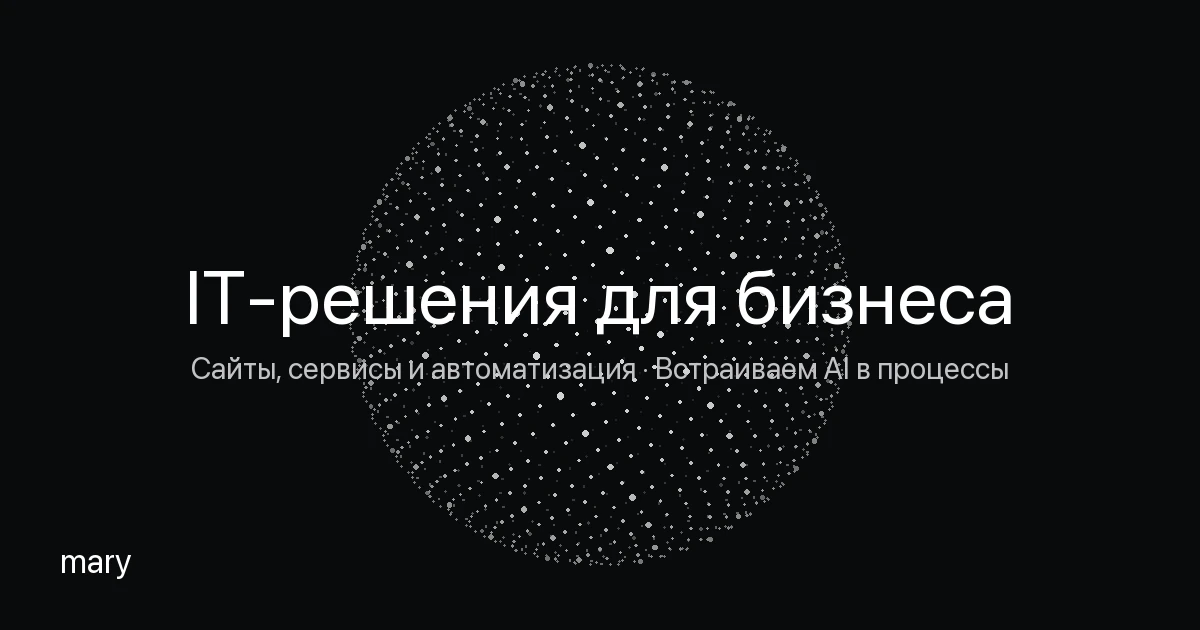
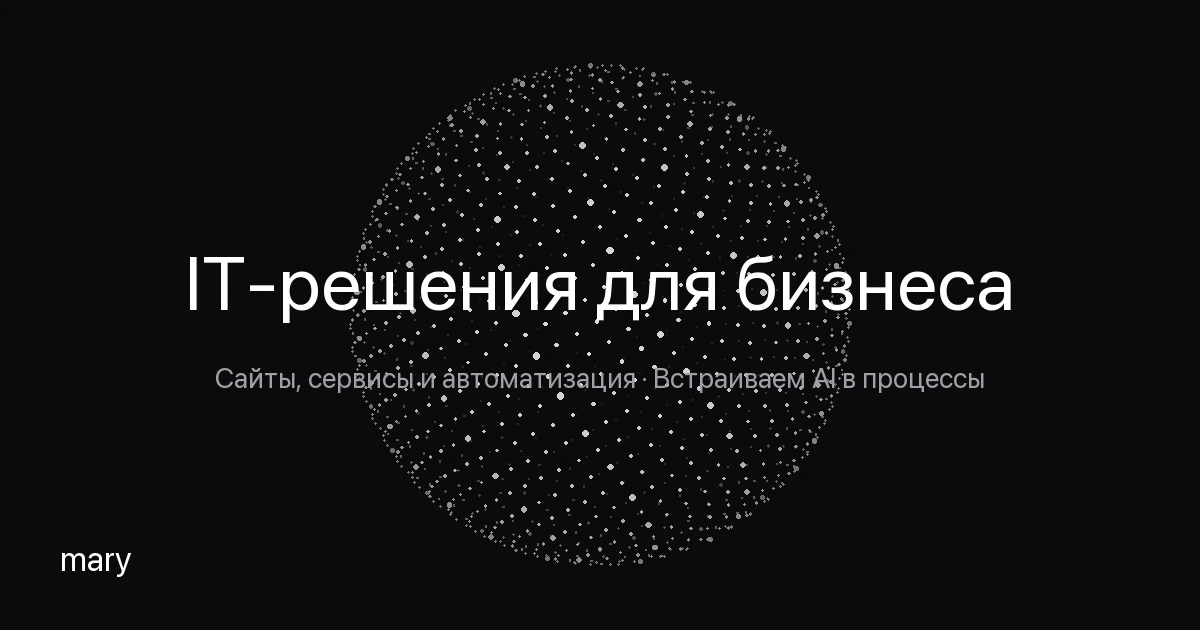
Деплой сайта 27.08.2026 15:22

Changed region(s): [[0.1542, 0.3921, 0.8633, 0.5429], [0.1542, 0.573, 0.8633, 0.6333], [0.0617, 0.8746, 0.1233, 0.9048]]

diff --git a/razrabotka.html b/razrabotka.html
@@ -26,7 +26,7 @@
 <meta name="description" content="Сайты, сервисы, интеграции, ИИ-агенты и автоматизация процессов на заказ. Гарантия 12 месяцев, права на результат у заказчика." />
 <title>IT-разработка и автоматизация на заказ — Mary</title>
 <script type="application/ld+json">{"@context": "https://schema.org", "@graph": [{"@type": "ProfessionalService", "name": "Mary — разработка и автоматизация на заказ", "url": "https://sales.maryrose.by/", "areaServed": "BY", "provider": {"@type": "Organization", "name": "ООО «Мэрироуз»", "url": "https://maryrose.by", "email": "lukashevich.ak@gmail.com", "telephone": "+375291898501"}, "description": "Разработка ИИ-агентов, чат-ботов, интеграций и систем автоматизации бизнес-процессов под заказ."}, {"@type": "FAQPage", "mainEntity": [{"@type": "Question", "name": "Кому принадлежит результат разработки?", "acceptedAnswer": {"@type": "Answer", "text": "Заказчику. Права, включая исключительное, переходят к нему; вознаграждение за уступку включено в стоимость работ."}}, {"@type": "Question", "name": "Есть ли гарантия?", "acceptedAnswer": {"@type": "Answer", "text": "Да, 12 месяцев с даты подписания акта. Найденные ошибки исправляем бесплатно в течение 7 рабочих дней."}}, {"@type": "Question", "name": "Как считается стоимость?", "acceptedAnswer": {"@type": "Answer", "text": "По объёму работ: каждая задача оценивается в часах и фиксируется в приложении к договору до старта."}}, {"@type": "Question", "name": "Чем это отличается от покупки платформы Mary?", "acceptedAnswer": {"@type": "Answer", "text": "Платформа — готовый продукт с подпиской. Разработка на заказ — решение под ваши процессы, которое может использовать платформу как основу или работать отдельно."}}]}, {"@type": "Organization", "@id": "https://sales.maryrose.by/#org", "name": "Mary", "legalName": "ООО «Мэрироуз»", "taxID": "193889413", "url": "https://sales.maryrose.by/", "logo": "https://sales.maryrose.by/favicon-512.png", "email": "lukashevich.ak@gmail.com", "telephone": "+375291898501", "address": {"@type": "PostalAddress", "addressCountry": "BY", "addressLocality": "Минск", "streetAddress": "ул. Чапаева, д. 3, пом. 213"}, "sameAs": ["https://www.linkedin.com/in/lukashevich-alex/", "https://t.me/l_aleksashka_l", "https://maryrose.by/"]}, {"@type": "WebSite", "@id": "https://sales.maryrose.by/#site", "url": "https://sales.maryrose.by/", "name": "Mary — разработка на заказ", "inLanguage": "ru", "publisher": {"@id": "https://sales.maryrose.by/#org"}}, {"@type": "BreadcrumbList", "itemListElement": [{"@type": "ListItem", "position": 1, "name": "Главная", "item": "https://sales.maryrose.by/"}]}]}</script>
-<link rel="stylesheet" href="/mary-site/razrabotka.css?v=202608271521" />
+<link rel="stylesheet" href="/mary-site/razrabotka.css?v=202608271522" />
 </head>
 <body>
 
@@ -661,8 +661,8 @@
   </div>
 </aside>
 
-<script src="/mary-site/lead.js?v=202608271521" defer></script>
-<script src="/mary-site/razrabotka.js?v=202608271521" defer></script>
+<script src="/mary-site/lead.js?v=202608271522" defer></script>
+<script src="/mary-site/razrabotka.js?v=202608271522" defer></script>
 
 
 

diff --git a/niches/proizvodstvo.html b/niches/proizvodstvo.html
@@ -24,7 +24,7 @@
 <link rel="apple-touch-icon" href="/mary-site/apple-touch-icon.png" />
 <title>ИИ на производстве — автоматизация заявок и расчёта</title>
 <meta name="description" content="Как внедрить ИИ на производстве: приём заявок из всех каналов, расчёт по прайсу и статусы заказов без ручной работы. Подключаемся к вашей CRM и 1С — менять систему и переносить данные не нужно." />
-<link rel="stylesheet" href="/mary-site/site.css?v=202608271521" />
+<link rel="stylesheet" href="/mary-site/site.css?v=202608271522" />
 <style>
   :root {
     /* ── акцент ниши ────────────────────────────────────────
@@ -813,8 +813,8 @@
   </button>
 </footer>
 
-<script src="/mary-site/lead.js?v=202608271521" defer></script>
-<script src="/mary-site/site.js?v=202608271521" defer></script>
+<script src="/mary-site/lead.js?v=202608271522" defer></script>
+<script src="/mary-site/site.js?v=202608271522" defer></script>
 
 </body>
 </html>

diff --git a/niches/clinics.html b/niches/clinics.html
@@ -24,7 +24,7 @@
 <link rel="apple-touch-icon" href="/mary-site/apple-touch-icon.png" />
 <title>ИИ для клиники — запись, напоминания и подготовка к приёму</title>
 <meta name="description" content="Как внедрить ИИ в клинике: запись без звонка в регистратуру, ответы по регламенту, напоминания и повторные приёмы. Ассистент не консультирует по здоровью — только организация приёма." />
-<link rel="stylesheet" href="/mary-site/site.css?v=202608271521" />
+<link rel="stylesheet" href="/mary-site/site.css?v=202608271522" />
 <style>
   :root {
     /* ── акцент ниши ────────────────────────────────────────
@@ -752,8 +752,8 @@
   </button>
 </footer>
 
-<script src="/mary-site/lead.js?v=202608271521" defer></script>
-<script src="/mary-site/site.js?v=202608271521" defer></script>
+<script src="/mary-site/lead.js?v=202608271522" defer></script>
+<script src="/mary-site/site.js?v=202608271522" defer></script>
 
 </body>
 </html>

diff --git a/niches/hr.html b/niches/hr.html
@@ -24,7 +24,7 @@
 <link rel="apple-touch-icon" href="/mary-site/apple-touch-icon.png" />
 <title>ИИ в найме — переписка с кандидатами и досье к собеседованию</title>
 <meta name="description" content="Как внедрить ИИ в найме: отклики из всех каналов в одной очереди, переписка и слоты на собеседование, досье и вопросы под роль, сводка после разговоров. Решение всегда за человеком." />
-<link rel="stylesheet" href="/mary-site/site.css?v=202608271521" />
+<link rel="stylesheet" href="/mary-site/site.css?v=202608271522" />
 <style>
   :root {
     /* ── акцент ниши ────────────────────────────────────────
@@ -752,8 +752,8 @@
   </button>
 </footer>
 
-<script src="/mary-site/lead.js?v=202608271521" defer></script>
-<script src="/mary-site/site.js?v=202608271521" defer></script>
+<script src="/mary-site/lead.js?v=202608271522" defer></script>
+<script src="/mary-site/site.js?v=202608271522" defer></script>
 
 </body>
 </html>

diff --git a/niches/beauty.html b/niches/beauty.html
@@ -24,7 +24,7 @@
 <link rel="apple-touch-icon" href="/mary-site/apple-touch-icon.png" />
 <title>ИИ для салона красоты — запись, напоминания и возвраты</title>
 <meta name="description" content="Как внедрить ИИ в салоне красоты: запись из директа и мессенджеров, напоминания и переносы, работа с окнами и молчащими клиентами. Подключаемся к YCLIENTS или Altegio — систему менять не нужно." />
-<link rel="stylesheet" href="/mary-site/site.css?v=202608271521" />
+<link rel="stylesheet" href="/mary-site/site.css?v=202608271522" />
 <style>
   :root {
     /* ── акцент ниши ────────────────────────────────────────
@@ -762,8 +762,8 @@
   </button>
 </footer>
 
-<script src="/mary-site/lead.js?v=202608271521" defer></script>
-<script src="/mary-site/site.js?v=202608271521" defer></script>
+<script src="/mary-site/lead.js?v=202608271522" defer></script>
+<script src="/mary-site/site.js?v=202608271522" defer></script>
 
 </body>
 </html>

diff --git a/niches/accounting.html b/niches/accounting.html
@@ -24,7 +24,7 @@
 <link rel="apple-touch-icon" href="/mary-site/apple-touch-icon.png" />
 <title>ИИ в бухгалтерии — сбор первички и напоминания</title>
 <meta name="description" content="Как внедрить ИИ в бухгалтерии: сбор первичных документов из всех каналов, проверка комплектности по регламенту, напоминания контрагентам и по срокам. Ассистент не консультирует по налогам." />
-<link rel="stylesheet" href="/mary-site/site.css?v=202608271521" />
+<link rel="stylesheet" href="/mary-site/site.css?v=202608271522" />
 <style>
   :root {
     /* ── акцент ниши ────────────────────────────────────────
@@ -752,8 +752,8 @@
   </button>
 </footer>
 
-<script src="/mary-site/lead.js?v=202608271521" defer></script>
-<script src="/mary-site/site.js?v=202608271521" defer></script>
+<script src="/mary-site/lead.js?v=202608271522" defer></script>
+<script src="/mary-site/site.js?v=202608271522" defer></script>
 
 </body>
 </html>

diff --git a/blog.html b/blog.html
@@ -24,7 +24,7 @@
 <link rel="apple-touch-icon" href="/mary-site/apple-touch-icon.png" />
 <title>Блог Mary — разборы автоматизации и жизнь компании</title>
 <meta name="description" content="Разборы про автоматизацию бизнеса: что можно снять с людей, с чего начать, где ИИ окупается. Плюс новости о компании." />
-<link rel="stylesheet" href="/mary-site/site.css?v=202608271521" />
+<link rel="stylesheet" href="/mary-site/site.css?v=202608271522" />
 <style>
   :root {
     /* ── акцент ниши ────────────────────────────────────────
@@ -392,8 +392,8 @@
   </button>
 </footer>
 
-<script src="/mary-site/lead.js?v=202608271521" defer></script>
-<script src="/mary-site/site.js?v=202608271521" defer></script>
+<script src="/mary-site/lead.js?v=202608271522" defer></script>
+<script src="/mary-site/site.js?v=202608271522" defer></script>
 <script>
   // Вкладки блога: показываем только карточки выбранного типа.
   (function () {

diff --git a/niches/sales.html b/niches/sales.html
@@ -24,7 +24,7 @@
 <link rel="apple-touch-icon" href="/mary-site/apple-touch-icon.png" />
 <title>ИИ в отделе продаж — квалификация лидов и работа с базой</title>
 <meta name="description" content="Как внедрить ИИ в отделе продаж: мгновенный первый ответ на заявку, квалификация по вашим критериям, возврат зависших сделок и подготовка к звонку. Работает внутри вашей CRM." />
-<link rel="stylesheet" href="/mary-site/site.css?v=202608271521" />
+<link rel="stylesheet" href="/mary-site/site.css?v=202608271522" />
 <style>
   :root {
     /* ── акцент ниши ────────────────────────────────────────
@@ -752,8 +752,8 @@
   </button>
 </footer>
 
-<script src="/mary-site/lead.js?v=202608271521" defer></script>
-<script src="/mary-site/site.js?v=202608271521" defer></script>
+<script src="/mary-site/lead.js?v=202608271522" defer></script>
+<script src="/mary-site/site.js?v=202608271522" defer></script>
 
 </body>
 </html>

diff --git a/niches/documents.html b/niches/documents.html
@@ -24,7 +24,7 @@
 <link rel="apple-touch-icon" href="/mary-site/apple-touch-icon.png" />
 <title>ИИ в документообороте — приём, маршрут и сроки подписания</title>
 <meta name="description" content="Как внедрить ИИ в документообороте: входящие документы из всех каналов, распознавание и маршрут по правилам, контроль сроков подписания и хранение в одном месте." />
-<link rel="stylesheet" href="/mary-site/site.css?v=202608271521" />
+<link rel="stylesheet" href="/mary-site/site.css?v=202608271522" />
 <style>
   :root {
     /* ── акцент ниши ────────────────────────────────────────
@@ -752,8 +752,8 @@
   </button>
 </footer>
 
-<script src="/mary-site/lead.js?v=202608271521" defer></script>
-<script src="/mary-site/site.js?v=202608271521" defer></script>
+<script src="/mary-site/lead.js?v=202608271522" defer></script>
+<script src="/mary-site/site.js?v=202608271522" defer></script>
 
 </body>
 </html>

diff --git a/niches/legal.html b/niches/legal.html
@@ -24,7 +24,7 @@
 <link rel="apple-touch-icon" href="/mary-site/apple-touch-icon.png" />
 <title>ИИ в юротделе — договоры, согласования и сроки</title>
 <meta name="description" content="Как внедрить ИИ в юридическом отделе: заявки на договор в одной очереди, проверка по чек-листу, контроль согласований и сроков. Ассистент не даёт правовых заключений." />
-<link rel="stylesheet" href="/mary-site/site.css?v=202608271521" />
+<link rel="stylesheet" href="/mary-site/site.css?v=202608271522" />
 <style>
   :root {
     /* ── акцент ниши ────────────────────────────────────────
@@ -752,8 +752,8 @@
   </button>
 </footer>
 
-<script src="/mary-site/lead.js?v=202608271521" defer></script>
-<script src="/mary-site/site.js?v=202608271521" defer></script>
+<script src="/mary-site/lead.js?v=202608271522" defer></script>
+<script src="/mary-site/site.js?v=202608271522" defer></script>
 
 </body>
 </html>

diff --git a/niches/services.html b/niches/services.html
@@ -24,7 +24,7 @@
 <link rel="apple-touch-icon" href="/mary-site/apple-touch-icon.png" />
 <title>ИИ в сфере услуг — заявки, расчёт и согласование выезда</title>
 <meta name="description" content="Как внедрить ИИ в сфере услуг: заявки из всех каналов, расчёт по прайсу, согласование выезда и напоминания мастерам. Подключаемся к вашей CRM и календарю." />
-<link rel="stylesheet" href="/mary-site/site.css?v=202608271521" />
+<link rel="stylesheet" href="/mary-site/site.css?v=202608271522" />
 <style>
   :root {
     /* ── акцент ниши ────────────────────────────────────────
@@ -752,8 +752,8 @@
   </button>
 </footer>
 
-<script src="/mary-site/lead.js?v=202608271521" defer></script>
-<script src="/mary-site/site.js?v=202608271521" defer></script>
+<script src="/mary-site/lead.js?v=202608271522" defer></script>
+<script src="/mary-site/site.js?v=202608271522" defer></script>
 
 </body>
 </html>

diff --git a/niches/retail.html b/niches/retail.html
@@ -24,7 +24,7 @@
 <link rel="apple-touch-icon" href="/mary-site/apple-touch-icon.png" />
 <title>ИИ в магазине — наличие, доставка и статусы заказов</title>
 <meta name="description" content="Как внедрить ИИ в магазине: ответы про наличие и доставку из всех каналов, статусы заказов, возврат брошенных корзин. Остатки и цены берём из вашей CRM и 1С." />
-<link rel="stylesheet" href="/mary-site/site.css?v=202608271521" />
+<link rel="stylesheet" href="/mary-site/site.css?v=202608271522" />
 <style>
   :root {
     /* ── акцент ниши ────────────────────────────────────────
@@ -752,8 +752,8 @@
   </button>
 </footer>
 
-<script src="/mary-site/lead.js?v=202608271521" defer></script>
-<script src="/mary-site/site.js?v=202608271521" defer></script>
+<script src="/mary-site/lead.js?v=202608271522" defer></script>
+<script src="/mary-site/site.js?v=202608271522" defer></script>
 
 </body>
 </html>
